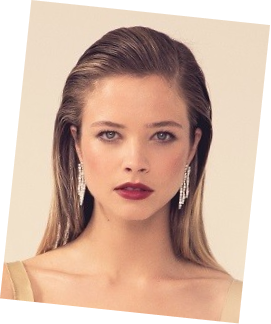
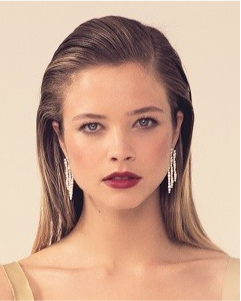
.

diff --git a/mediakits.html b/mediakits.html
@@ -723,8 +723,8 @@
 						</div>
 						<div class="projects-mediakits__items">
 							<div class="projects-mediakits__row">
-								<div class="projects-mediakits__item show projects-mediakits-digital">
-									<div class="projects-mediakits__item-img">
+								<div class="projects-mediakits__item  projects-mediakits-digital">
+									<div class="projects-mediakits__item-img show">
 										<img src="img/mediakits/1.jpg" alt="">
 									</div>
 									<div class="projects-mediakits__item-title">
@@ -734,8 +734,8 @@
 										Энциклопедия женских интересов
 									</div>
 								</div>
-								<div class="projects-mediakits__item show projects-mediakits-print">
-									<div class="projects-mediakits__item-img">
+								<div class="projects-mediakits__item  projects-mediakits-print">
+									<div class="projects-mediakits__item-img show">
 										<img src="img/mediakits/2.jpg" alt="">
 									</div>
 									<div class="projects-mediakits__item-title">
@@ -745,8 +745,8 @@
 										Городской портал Екатеринбурга
 									</div>
 								</div>
-								<div class="projects-mediakits__item show projects-mediakits-print">
-									<div class="projects-mediakits__item-img">
+								<div class="projects-mediakits__item  projects-mediakits-print">
+									<div class="projects-mediakits__item-img show">
 										<img src="img/mediakits/3.jpg" alt="">
 									</div>
 									<div class="projects-mediakits__item-title">
@@ -756,8 +756,8 @@
 										Самые горячие новости шоу-бизнеса России и мира
 									</div>
 								</div>
-								<div class="projects-mediakits__item show projects-mediakits-digital">
-									<div class="projects-mediakits__item-img">
+								<div class="projects-mediakits__item  projects-mediakits-digital">
+									<div class="projects-mediakits__item-img show">
 										<img src="img/mediakits/4.jpg" alt="">
 									</div>
 									<div class="projects-mediakits__item-title">
@@ -767,8 +767,8 @@
 										Городской портал Санкт-Петербурга
 									</div>
 								</div>
-								<div class="projects-mediakits__item show projects-mediakits-print">
-									<div class="projects-mediakits__item-img">
+								<div class="projects-mediakits__item  projects-mediakits-print">
+									<div class="projects-mediakits__item-img show">
 										<img src="img/mediakits/5.jpg" alt="">
 									</div>
 									<div class="projects-mediakits__item-title">
@@ -778,8 +778,8 @@
 										Сайт с женским характером
 									</div>
 								</div>
-								<div class="projects-mediakits__item show projects-mediakits-print">
-									<div class="projects-mediakits__item-img">
+								<div class="projects-mediakits__item  projects-mediakits-print">
+									<div class="projects-mediakits__item-img show">
 										<img src="img/mediakits/6.jpg" alt="">
 									</div>
 									<div class="projects-mediakits__item-title">
@@ -789,8 +789,8 @@
 										Городской портал Новосибирска
 									</div>
 								</div>
-								<div class="projects-mediakits__item show projects-mediakits-digital">
-									<div class="projects-mediakits__item-img">
+								<div class="projects-mediakits__item  projects-mediakits-digital">
+									<div class="projects-mediakits__item-img show">
 										<img src="img/mediakits/7.jpg" alt="">
 									</div>
 									<div class="projects-mediakits__item-title">
@@ -800,8 +800,8 @@
 										Think smart, Look amazing!
 									</div>
 								</div>
-								<div class="projects-mediakits__item show projects-mediakits-print">
-									<div class="projects-mediakits__item-img">
+								<div class="projects-mediakits__item  projects-mediakits-print">
+									<div class="projects-mediakits__item-img show">
 										<img src="img/mediakits/8.jpg" alt="">
 									</div>
 									<div class="projects-mediakits__item-title">
@@ -811,8 +811,8 @@
 										Городской портал Нижнего Новгорода
 									</div>
 								</div>
-								<div class="projects-mediakits__item show projects-mediakits-digital">
-									<div class="projects-mediakits__item-img">
+								<div class="projects-mediakits__item  projects-mediakits-digital">
+									<div class="projects-mediakits__item-img show">
 										<img src="img/mediakits/9.jpg" alt="">
 									</div>
 									<div class="projects-mediakits__item-title">
@@ -823,8 +823,8 @@
 										№1 в России
 									</div>
 								</div>
-								<div class="projects-mediakits__item show projects-mediakits-print">
-									<div class="projects-mediakits__item-img">
+								<div class="projects-mediakits__item  projects-mediakits-print">
+									<div class="projects-mediakits__item-img show">
 										<img src="img/mediakits/5.jpg" alt="">
 									</div>
 									<div class="projects-mediakits__item-title">
@@ -834,8 +834,8 @@
 										Сайт с женским характером
 									</div>
 								</div>
-								<div class="projects-mediakits__item show projects-mediakits-print">
-									<div class="projects-mediakits__item-img">
+								<div class="projects-mediakits__item  projects-mediakits-print">
+									<div class="projects-mediakits__item-img show">
 										<img src="img/mediakits/6.jpg" alt="">
 									</div>
 									<div class="projects-mediakits__item-title">
@@ -845,8 +845,8 @@
 										Городской портал Новосибирска
 									</div>
 								</div>
-								<div class="projects-mediakits__item show projects-mediakits-digital">
-									<div class="projects-mediakits__item-img">
+								<div class="projects-mediakits__item  projects-mediakits-digital">
+									<div class="projects-mediakits__item-img show">
 										<img src="img/mediakits/7.jpg" alt="">
 									</div>
 									<div class="projects-mediakits__item-title">
@@ -856,8 +856,8 @@
 										Think smart, Look amazing!
 									</div>
 								</div>
-								<div class="projects-mediakits__item show projects-mediakits-print">
-									<div class="projects-mediakits__item-img">
+								<div class="projects-mediakits__item  projects-mediakits-print">
+									<div class="projects-mediakits__item-img show">
 										<img src="img/mediakits/8.jpg" alt="">
 									</div>
 									<div class="projects-mediakits__item-title">
@@ -867,8 +867,8 @@
 										Городской портал Нижнего Новгорода
 									</div>
 								</div>
-								<div class="projects-mediakits__item show projects-mediakits-digital">
-									<div class="projects-mediakits__item-img">
+								<div class="projects-mediakits__item  projects-mediakits-digital">
+									<div class="projects-mediakits__item-img show">
 										<img src="img/mediakits/9.jpg" alt="">
 									</div>
 									<div class="projects-mediakits__item-title">

diff --git a/css/prodmediakit.css b/css/prodmediakit.css
@@ -491,16 +491,16 @@
 }
 .user-prodmediakit__content .user-prodmediakit__img .user-prodmediakit__img-girl {
   position: absolute;
-  top: 50%;
+  top: 47%;
   left: 50%;
-  transform: translate(-50%, -50%);
-  width: 285px;
-  height: 350px;
+  transform: translate(-50%, -50%) rotate(6deg);
+  width: 240px;
+  height: 300px;
 }
 @media (max-width: 1919px) {
   .user-prodmediakit__content .user-prodmediakit__img .user-prodmediakit__img-girl {
-    width: 14.851vw;
-    height: 18.239vw;
+    width: 12.507vw;
+    height: 15.633vw;
   }
 }
 @media (max-width: 768px) {

diff --git a/css/prodmediakit.less b/css/prodmediakit.less
@@ -407,14 +407,14 @@
 		}
 		.user-prodmediakit__img-girl {
 			position: absolute;
-			top: 50%;
+			top: 47%;
 			left: 50%;
-			transform: translate(-50%, -50%);
-			width: 285px;
-			height: 350px;
+			transform: translate(-50%, -50%) rotate(6deg);
+			width: 240px;
+			height: 300px;
 			@media (max-width: 1919px){
-				width: 14.851vw;
-				height: 18.239vw;
+				width: 12.507vw;
+				height: 15.633vw;
 			}
 			@media (max-width: 768px){
 				width: 44.860vw;
